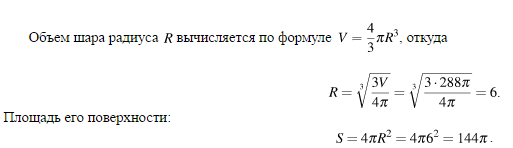
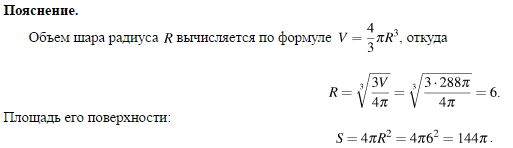
Исправлена с шапкой и другие фиксы

Changed region(s): [[0.0, 0.027, 0.1559, 0.1081]]

diff --git a/css/style.css b/css/style.css
@@ -30,7 +30,9 @@ main .menu {
 main .menu a {
     display: inline-block;
     margin: 10px;
+    position: relative;
     font-size: 1.0rem;
+    right: 10px;
     margin-bottom: 35px;
     text-transform: uppercase;
     font-weight: 900;
@@ -95,7 +97,10 @@ main .menu a:hover img {
 }
 .app header {
     z-index: 999;
-    height: 155px;
+    height: 83px;
+    position: fixed;
+    width: 100%;
+    z-index: -5;
 }
 .app header .logo,
 .app header .tabs {
@@ -106,8 +111,11 @@ main .menu a:hover img {
     float: left;
 }
 .app header .logo img {
-    width: 65%;
+    width: 42%;
     display: block;
+    position: relative;
+    bottom: 10px;
+    right: 10px;
 }
 .app header .logo span {
     font-size: .6em;
@@ -140,9 +148,6 @@ main .menu a:hover img {
     cursor: pointer;
     z-index: 0;
     transition: all .3s;
-}
-header span {
-    padding: 20px;
 }
 .tab-menu li.active {
     color: #464646;
@@ -505,14 +510,17 @@ header span {
     text-decoration: none;
     margin: 5px;
     color: #fff;
-    transition: 0.3s
 }
 .sidenav h1 {
-    font-size: 20px;
-    color: #154c51;
+    font-size: 25px;
+    color: #fff;
     font-weight: 800;
     left: 5px;
     position: relative;
+    margin: 15px;
+}
+.h1-class {
+    font-size: 25px;
 }
 .sidenav a:hover,
 .offcanvas a:focus {
@@ -545,15 +553,25 @@ header span {
     cursor: pointer;
     width: 20px;
     float: left;
-    top: 50%;
-    left: 0.1%;
+    top: 40%;
+    left: 0;
     position: fixed;
-    height: 85px;
+    height: 200px;
+    opacity: 0.6;
     z-index: 10000;
     background-color: #1e6d74;
-    padding: 11px;
-    border-radius: 20px 20px 20px 20px;
+    padding: 20px;
+    border-radius: 0px 20px 20px 0px;
 }
+.NavButton:not(:hover) {
+    opacity: 0.6;
+    transition: 0.4s
+}
+.NavButton:hover {
+    opacity: 1;
+    transition: 0.4s
+}
+
 .choose-your-variant {
     margin-top: 100px;
 }
@@ -623,4 +641,9 @@ header span {
     border-style: solid; 
     width: 60%;
     text-align: center;
+}
+.back-button {
+    position: relative;
+    bottom: 15px;
+    right: 35px;
 }

diff --git a/js/calendar.js b/js/calendar.js
@@ -228,7 +228,7 @@ Calendar.setup = function(params)
       calendar.setDateFormat(params.dateFormat)
     if (params.dateField) {
       calendar.setDateField(params.dateField)
-      calendar.parseDate(calendar.dateField.innerHTML || calendar.dateField.value)
+      //calendar.parseDate(calendar.dateField.innerHTML || calendar.dateField.value)
     }
     calendar.show()
     return calendar

diff --git a/pages/ege/index.php b/pages/ege/index.php
@@ -14,10 +14,8 @@
     <script src="../../js/app.js" charset="utf-8"></script>
 </head>
 
-	<!-- mysql -->
 	<? require_once('/../../config.php'); ?>
 	
-	<!-- ajax -->
 	<script type="text/javascript">
          function getType(id, task) {
          	$('#output').html('<img src="http://www.thebuildingsshow.com/assets14/loading.gif" />');
@@ -33,7 +31,6 @@
          }
     </script>
 	
-	<!-- open and close NavBar -->
 	<script>
          function openNav() {
              document.getElementById("sideBar").style.width = "450px";
@@ -53,9 +50,9 @@
             <a href="http://174.129.143.211/" alt="Вернуться назад">
               <img src="../../img/ege.png" alt="">
             </a>
-			<div>НАЗАД</div>
+			<div class="back-button">НАЗАД</div>
         </div>
-		<div style="padding: 4px; margin-top: 50px; margin-right: 240px;">ЕДИНЫЙ ГОСУДАРСТВЕННЫЙ
+		<div style="padding: 4px; margin-top: 10px; margin-right: 240px;">ЕДИНЫЙ ГОСУДАРСТВЕННЫЙ
 				<br>ЭКЗАМЕН</div>
     </header>
     
@@ -73,11 +70,11 @@
 				<a class="level-blocks" onclick="getType('2', '<?=$i?>')">ПОЗИЦИЯ <?=$i?></a>
 			<? } ?>
 			<div class="make-own">
-				<a href="own/">СОЗДАТЬ СВОЙ ВАРИАНТ</a>
+				<a class="h1-class" href="own/">СОЗДАТЬ СВОЙ ВАРИАНТ</a>
 			</div>
 		</div>
 		
-		<span	 class="NavButton" id="NavButton" onclick="openNav()"><div style="top: 35%; position: absolute;">&#187;</div></i></span>
+		<span class="NavButton" id="NavButton" onclick="openNav()"><div style="top: 43%; position: absolute; font-size: 40px;">&#187;</div></i></span>
 		
 		<div id="output">
 			 <div class="welcome-output">Вы попали на страницу с выбором уровня и позиции!<br> Для того, чтобы начать решать задания, нажмите на стрелочку слева и выберите нужную позицию!</div>

diff --git a/pages/school/index.php b/pages/school/index.php
@@ -69,26 +69,31 @@
     </script>
 
 <body>
+
     <header>
+	
         <div class="logo">
-          <a href="/" alt="Вернуться назад">
-            <img src="../../img/schoolcourse.png" alt="">
-          </a>
-		  <div>НАЗАД</div>
+            <a href="http://174.129.143.211/" alt="Вернуться назад">
+              <img src="../../img/schoolcourse.png" alt="">
+            </a>
+			<div class="back-button">НАЗАД</div>
         </div>
-		<div style="padding: 4px; margin-top: 50px; margin-right: 240px;">ШКОЛЬНЫЙ
+		
+		<div style="padding: 4px; margin-top: 10px; margin-right: 240px;">ШКОЛЬНЫЙ
 				<br>КУРС</header>
     <main>
 	
 		<div id="sideBar" class="sidenav">
 			<a href="javascript:void(0)" class="closebtn" onclick="closeNav()">&times;</a>
 			<div id="side-output">
-				<a class="level-blocks" onclick="getChar('0')">Алгебра</a>
-				<a class="level-blocks" onclick="getChar('1')">Геометрия</a>
+			<? $result = mysql_query("SELECT MAX(math_charpter) AS m_char, MAX(math_ID) AS m_ID FROM themes GROUP BY  math_ID");
+			while ($row = mysql_fetch_array($result, MYSQL_BOTH)) { ?>
+				<a class="theme-blocks" onclick="getType('<?=$row["m_ID"]?>', '0')"><?=$row["m_char"]?></a>
+			<? } ?>
 			</div>
 		</div>
 		
-		<span class="NavButton" id="NavButton" onclick="openNav()"><div style="top: 35%; position: absolute;">&#187;</div></i></span>
+		<span class="NavButton" id="NavButton" onclick="openNav()"><div style="top: 43%; position: absolute; font-size: 40px;">&#187;</div></i></span>
 		
 		<div id="output">
 			

diff --git a/index.php b/index.php
@@ -40,8 +40,8 @@
 <body>
 	<header>
 		  
-		   <span>СПРАВОЧНО-ОБУЧАЮЩЕЕ ЭЛЕКТРОННОЕ
-		   <br> ПОСОБИЕ ПО МАТЕМАТИКЕ</span>
+		   <div>СПРАВОЧНО-ОБУЧАЮЩЕЕ ЭЛЕКТРОННОЕ
+		   <br> ПОСОБИЕ ПО МАТЕМАТИКЕ</div>
 		   
 	</header>
 		
